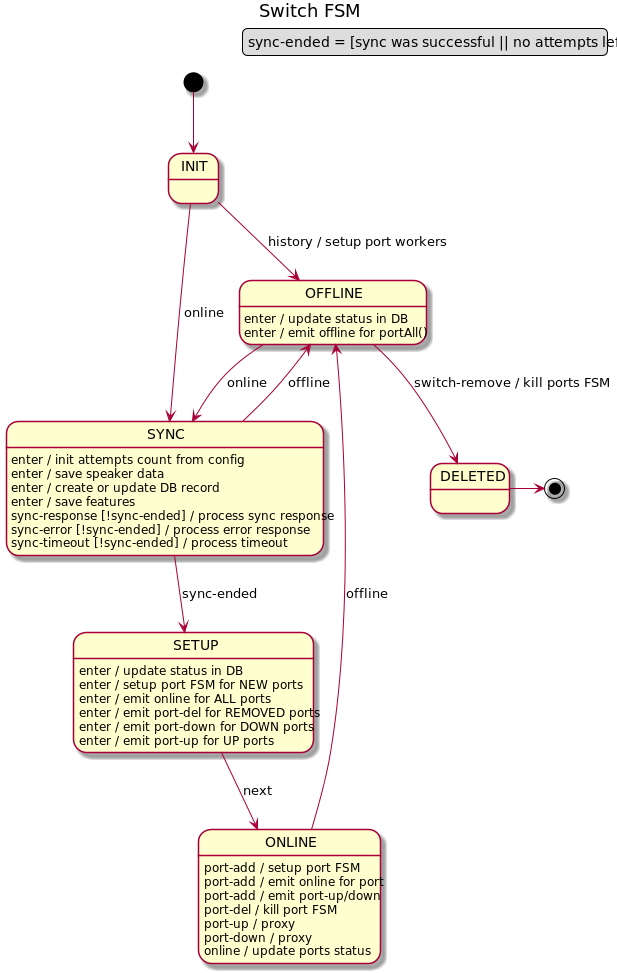
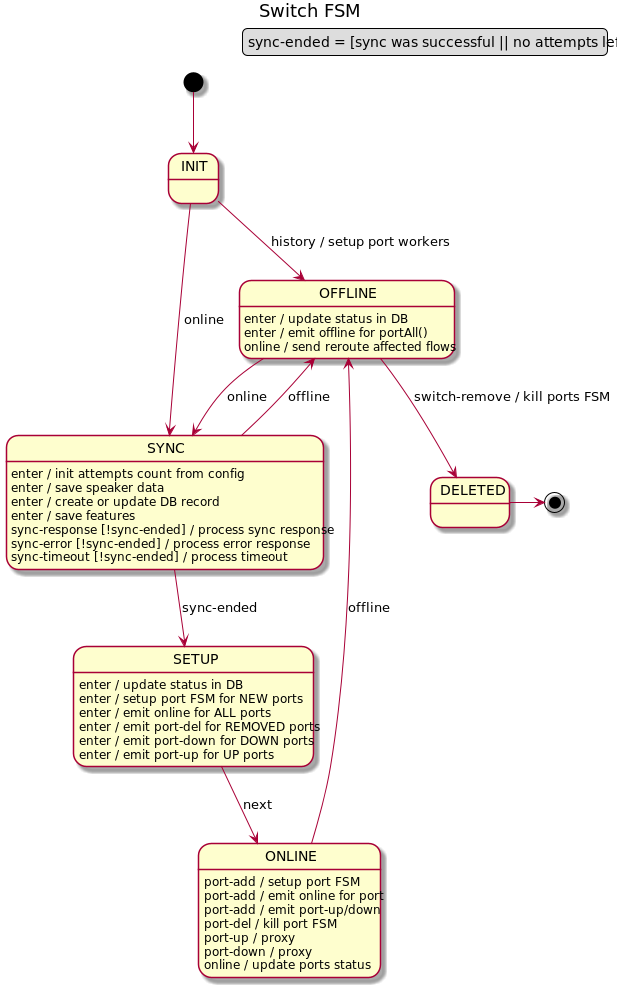
Reroute affected flows on switch up event

diff --git a/services/wfm/src/main/java/org/openkilda/wfm/topology/reroute/service/RerouteService.java b/services/wfm/src/main/java/org/openkilda/wfm/topology/reroute/service/RerouteService.java
@@ -15,6 +15,10 @@
 
 package org.openkilda.wfm.topology.reroute.service;
 
+import static java.lang.String.format;
+import static java.util.stream.Collectors.toMap;
+import static java.util.stream.Collectors.toSet;
+
 import org.openkilda.messaging.command.reroute.RerouteAffectedFlows;
 import org.openkilda.messaging.command.reroute.RerouteInactiveFlows;
 import org.openkilda.messaging.info.event.PathNode;
@@ -127,6 +131,28 @@ public class RerouteService {
             }
             if (failedFlowPath) {
                 updateFlowPathStatus(fp, FlowPathStatus.INACTIVE);
+            }
+        }
+    }
+
+    /**
+     * Handles reroute on switch up events.
+     * @param sender transport sender
+     * @param correlationId correlation id to pass through
+     * @param switchId switch id
+     */
+    public void rerouteInactiveAffectedFlows(MessageSender sender, String correlationId,
+                                             SwitchId switchId) {
+        Set<Flow> flowsForRerouting = getAffectedInactiveFlowsForRerouting(switchId);
+
+        for (Flow flow : flowsForRerouting) {
+            if (flow.isPinned()) {
+                log.info("Skipping reroute command for pinned flow {}", flow.getFlowId());
+            } else {
+                log.info("Produce reroute(attempt to restore inactive flow) request for {}",
+                        flow.getFlowId());
+                sender.emitRerouteCommand(correlationId, flow, Collections.emptySet(),
+                        format("Switch '%s' online", switchId));
             }
         }
     }
@@ -263,12 +289,22 @@ public class RerouteService {
     public Map<Flow, Set<PathId>> getInactiveFlowsForRerouting() {
         log.info("Get inactive flows");
         return flowRepository.findDownFlows().stream()
-                .collect(Collectors.toMap(Function.identity(),
+                .collect(toMap(Function.identity(),
                         flow -> flow.getPaths().stream()
                         .filter(path -> FlowPathStatus.INACTIVE.equals(path.getStatus()))
                         .map(FlowPath::getPathId)
                         .collect(Collectors.toSet()))
                 );
+    }
+
+    /**
+     * Returns affected inactive flow set for rerouting.
+     */
+    public Set<Flow> getAffectedInactiveFlowsForRerouting(SwitchId switchId) {
+        log.info("Get affected inactive flows for switch {}", switchId);
+        return flowPathRepository.findInactiveBySegmentSwitch(switchId).stream()
+                .map(FlowPath::getFlow)
+                .collect(toSet());
     }
 
     private void updateFlowPathStatus(FlowPath path, FlowPathStatus status) {

diff --git a/services/wfm/src/main/java/org/openkilda/wfm/topology/network/storm/bolt/sw/SwitchHandler.java b/services/wfm/src/main/java/org/openkilda/wfm/topology/network/storm/bolt/sw/SwitchHandler.java
@@ -15,6 +15,10 @@
 
 package org.openkilda.wfm.topology.network.storm.bolt.sw;
 
+import static org.openkilda.wfm.topology.network.storm.bolt.isl.IslHandler.STREAM_REROUTE_FIELDS;
+import static org.openkilda.wfm.topology.network.storm.bolt.isl.IslHandler.STREAM_REROUTE_ID;
+
+import org.openkilda.messaging.command.reroute.RerouteAffectedInactiveFlows;
 import org.openkilda.messaging.error.rule.SwitchSyncErrorData;
 import org.openkilda.messaging.info.event.PortInfoData;
 import org.openkilda.messaging.info.event.SwitchInfoData;
@@ -127,6 +131,7 @@ public class SwitchHandler extends AbstractBolt implements ISwitchCarrier {
         streamManager.declareStream(STREAM_PORT_ID, STREAM_PORT_FIELDS);
         streamManager.declareStream(STREAM_BFD_PORT_ID, STREAM_BFD_PORT_FIELDS);
         streamManager.declareStream(STREAM_SWMANAGER_ID, STREAM_SWMANAGER_FIELDS);
+        streamManager.declareStream(STREAM_REROUTE_ID, STREAM_REROUTE_FIELDS);
     }
 
     @Override
@@ -176,6 +181,11 @@ public class SwitchHandler extends AbstractBolt implements ISwitchCarrier {
         emit(STREAM_SWMANAGER_ID, getCurrentTuple(), makeSwitchManagerWorkerTuple(key, switchId));
     }
 
+    @Override
+    public void sendAffectedFlowRerouteRequest(SwitchId switchId) {
+        emit(STREAM_REROUTE_ID, getCurrentTuple(), makeAffectedFlowRerouteTuple(switchId));
+    }
+
     private Values makePortTuple(PortCommand command) {
         Endpoint endpoint = command.getEndpoint();
         CommandContext context = forkContext(endpoint.toString());
@@ -191,6 +201,11 @@ public class SwitchHandler extends AbstractBolt implements ISwitchCarrier {
     private Values makeSwitchManagerWorkerTuple(String key, SwitchId switchId) {
         return new Values(
                 key, new SwitchManagerSynchronizeSwitchCommand(key, switchId), getCommandContext().fork("sync"));
+    }
+
+    private Values makeAffectedFlowRerouteTuple(SwitchId switchId) {
+        return new Values(switchId.toString(), new RerouteAffectedInactiveFlows(switchId),
+                getCommandContext().fork("reroute"));
     }
 
     // SwitchCommand processing

diff --git a/services/src/messaging/src/main/java/org/openkilda/messaging/command/reroute/RerouteAffectedInactiveFlows.java b/services/src/messaging/src/main/java/org/openkilda/messaging/command/reroute/RerouteAffectedInactiveFlows.java
@@ -1,0 +1,42 @@
+/* Copyright 2020 Telstra Open Source
+ *
+ *   Licensed under the Apache License, Version 2.0 (the "License");
+ *   you may not use this file except in compliance with the License.
+ *   You may obtain a copy of the License at
+ *
+ *       http://www.apache.org/licenses/LICENSE-2.0
+ *
+ *   Unless required by applicable law or agreed to in writing, software
+ *   distributed under the License is distributed on an "AS IS" BASIS,
+ *   WITHOUT WARRANTIES OR CONDITIONS OF ANY KIND, either express or implied.
+ *   See the License for the specific language governing permissions and
+ *   limitations under the License.
+ */
+
+package org.openkilda.messaging.command.reroute;
+
+import org.openkilda.messaging.command.CommandData;
+import org.openkilda.model.SwitchId;
+
+import com.fasterxml.jackson.annotation.JsonCreator;
+import com.fasterxml.jackson.annotation.JsonInclude;
+import com.fasterxml.jackson.annotation.JsonProperty;
+import com.fasterxml.jackson.databind.PropertyNamingStrategy.SnakeCaseStrategy;
+import com.fasterxml.jackson.databind.annotation.JsonNaming;
+import lombok.Data;
+import lombok.EqualsAndHashCode;
+import lombok.NonNull;
+
+@Data
+@EqualsAndHashCode(callSuper = false)
+@JsonNaming(SnakeCaseStrategy.class)
+@JsonInclude(JsonInclude.Include.NON_NULL)
+public class RerouteAffectedInactiveFlows extends CommandData {
+
+    private SwitchId switchId;
+
+    @JsonCreator
+    public RerouteAffectedInactiveFlows(@NonNull @JsonProperty("switch_id") SwitchId switchId) {
+        this.switchId = switchId;
+    }
+}

diff --git a/services/wfm/src/test/java/org/openkilda/wfm/topology/reroute/service/RerouteServiceTest.java b/services/wfm/src/test/java/org/openkilda/wfm/topology/reroute/service/RerouteServiceTest.java
@@ -315,4 +315,31 @@ public class RerouteServiceTest {
                 eq(Collections.singleton(new IslEndpoint(islSide.getSwitchId(), islSide.getPortNo()))),
                 any(String.class));
     }
+
+    @Test
+    public void handleRerouteInactiveAffectedFlows() {
+        FlowPathRepository pathRepository = mock(FlowPathRepository.class);
+        when(pathRepository.findInactiveBySegmentSwitch(regularFlow.getSrcSwitch().getSwitchId()))
+                .thenReturn(Arrays.asList(regularFlow.getForwardPath(), regularFlow.getReversePath()));
+
+        RepositoryFactory repositoryFactory = mock(RepositoryFactory.class);
+        when(repositoryFactory.createFlowPathRepository())
+                .thenReturn(pathRepository);
+
+        PersistenceManager persistenceManager = mock(PersistenceManager.class);
+        when(persistenceManager.getRepositoryFactory()).thenReturn(repositoryFactory);
+        when(persistenceManager.getTransactionManager()).thenReturn(transactionManager);
+
+        RerouteService rerouteService = new RerouteService(persistenceManager);
+
+        regularFlow.setStatus(FlowStatus.DOWN);
+        rerouteService.rerouteInactiveAffectedFlows(carrier, CORRELATION_ID, regularFlow.getSrcSwitch().getSwitchId());
+
+        verify(carrier).emitRerouteCommand(
+                eq(CORRELATION_ID), eq(regularFlow),
+                eq(Collections.emptySet()),
+                any(String.class));
+
+        regularFlow.setStatus(FlowStatus.UP);
+    }
 }

diff --git a/services/src/kilda-core/kilda-persistence-neo4j/src/test/java/org/openkilda/persistence/repositories/impl/Neo4jFlowPathRepositoryTest.java b/services/src/kilda-core/kilda-persistence-neo4j/src/test/java/org/openkilda/persistence/repositories/impl/Neo4jFlowPathRepositoryTest.java
@@ -335,6 +335,30 @@ public class Neo4jFlowPathRepositoryTest extends Neo4jBasedTest {
     }
 
     @Test
+    public void shouldFindInactivePathBySegmentSwitch() {
+        Flow activeFlow = Flow.builder()
+                .flowId("active flow")
+                .srcSwitch(switchA)
+                .srcPort(1)
+                .destSwitch(switchB)
+                .destPort(2)
+                .status(FlowStatus.UP)
+                .build();
+        flowRepository.createOrUpdate(activeFlow);
+        FlowPath activeFlowPath = buildFlowPath(activeFlow, "active", 100L, 200L, switchA, switchB);
+        activeFlowPath.getFlow().setStatus(FlowStatus.DOWN);
+        FlowPath expectedFlowPath = buildTestFlowPathWithIntermediate(switchC, 100);
+        expectedFlowPath.getFlow().setStatus(FlowStatus.DOWN);
+        flowPathRepository.createOrUpdate(activeFlowPath);
+        flowPathRepository.createOrUpdate(expectedFlowPath);
+
+        Collection<FlowPath> foundPaths = flowPathRepository.findInactiveBySegmentSwitch(switchA.getSwitchId());
+        assertThat(foundPaths, hasSize(1));
+        FlowPath actualFlowPath = foundPaths.stream().findFirst().orElse(null);
+        assertEquals(expectedFlowPath, actualFlowPath);
+    }
+
+    @Test
     public void shouldFindPathBySegmentDestSwitch() {
         FlowPath flowPath = buildTestFlowPathWithIntermediate(switchC, 100);
         flowPathRepository.createOrUpdate(flowPath);

diff --git a/services/wfm/src/main/java/org/openkilda/wfm/topology/network/controller/sw/SwitchFsm.java b/services/wfm/src/main/java/org/openkilda/wfm/topology/network/controller/sw/SwitchFsm.java
@@ -84,6 +84,7 @@ public final class SwitchFsm extends AbstractBaseFsm<SwitchFsm, SwitchFsmState, 
     private String awaitingResponseKey;
 
     private SpeakerSwitchView speakerData;
+    private boolean wasOffline;
 
     public static SwitchFsmFactory factory() {
         return new SwitchFsmFactory();
@@ -145,6 +146,10 @@ public final class SwitchFsm extends AbstractBaseFsm<SwitchFsm, SwitchFsmState, 
         transactionManager.doInTransaction(transactionRetryPolicy, () -> updatePersistentStatus(SwitchStatus.ACTIVE));
         updatePorts(context, speakerData, true);
         speakerData = null;
+        if (wasOffline) {
+            context.getOutput().sendAffectedFlowRerouteRequest(switchId);
+            wasOffline = false;
+        }
     }
 
     public void onlineEnter(SwitchFsmState from, SwitchFsmState to, SwitchFsmEvent event, SwitchFsmContext context) {
@@ -155,6 +160,7 @@ public final class SwitchFsm extends AbstractBaseFsm<SwitchFsm, SwitchFsmState, 
                              SwitchFsmContext context) {
         logWrapper.onSwitchOffline(switchId);
         transactionManager.doInTransaction(transactionRetryPolicy, () -> updatePersistentStatus(SwitchStatus.INACTIVE));
+        wasOffline = true;
 
         for (AbstractPort port : portByNumber.values()) {
             updateOnlineStatus(port, context, false);

diff --git a/services/src/kilda-core/kilda-persistence-neo4j/src/main/java/org/openkilda/persistence/repositories/impl/Neo4jFlowPathRepository.java b/services/src/kilda-core/kilda-persistence-neo4j/src/main/java/org/openkilda/persistence/repositories/impl/Neo4jFlowPathRepository.java
@@ -207,6 +207,27 @@ public class Neo4jFlowPathRepository extends Neo4jGenericRepository<FlowPath> im
     }
 
     @Override
+    public Collection<FlowPath> findInactiveBySegmentSwitch(SwitchId switchId) {
+        Map<String, Object> parameters = ImmutableMap.of(
+                "switch_id", switchIdConverter.toGraphProperty(switchId));
+
+        Set<String> pathIds = new HashSet<>();
+        queryForStrings("MATCH (ps_src:switch)-[:source]-(ps:path_segment)-[:destination]-(ps_dst:switch) "
+                + "WHERE ps_src.name = $switch_id OR ps_dst.name = $switch_id "
+                + "MATCH (f:flow)-[:owns]-(fp:flow_path)-[:owns]-(ps) "
+                + "WHERE f.status = 'down' OR f.status = 'degraded' "
+                + "RETURN fp.path_id as path_id", parameters, "path_id").forEach(pathIds::add);
+
+        if (pathIds.isEmpty()) {
+            return emptyList();
+        }
+
+        Filter pathIdsFilter = new Filter(PATH_ID_PROPERTY_NAME, new InOperatorWithNoConverterComparison(pathIds));
+
+        return loadAll(pathIdsFilter);
+    }
+
+    @Override
     public Collection<FlowPath> findBySegmentSwitchWithMultiTable(SwitchId switchId, boolean multiTable) {
         Map<String, Object> parameters = ImmutableMap.of(
                 "switch_id", switchIdConverter.toGraphProperty(switchId),

diff --git a/services/wfm/src/main/java/org/openkilda/wfm/topology/reroute/bolts/RerouteBolt.java b/services/wfm/src/main/java/org/openkilda/wfm/topology/reroute/bolts/RerouteBolt.java
@@ -19,6 +19,7 @@ import org.openkilda.messaging.command.CommandData;
 import org.openkilda.messaging.command.CommandMessage;
 import org.openkilda.messaging.command.flow.FlowPathSwapRequest;
 import org.openkilda.messaging.command.reroute.RerouteAffectedFlows;
+import org.openkilda.messaging.command.reroute.RerouteAffectedInactiveFlows;
 import org.openkilda.messaging.command.reroute.RerouteInactiveFlows;
 import org.openkilda.model.Flow;
 import org.openkilda.model.FlowPath;
@@ -76,6 +77,9 @@ public class RerouteBolt extends AbstractBolt implements MessageSender {
         String correlationId = message.getCorrelationId();
         if (commandData instanceof RerouteAffectedFlows) {
             rerouteService.rerouteAffectedFlows(this, correlationId, (RerouteAffectedFlows) commandData);
+        } else if (commandData instanceof RerouteAffectedInactiveFlows) {
+            rerouteService.rerouteInactiveAffectedFlows(this, correlationId,
+                    ((RerouteAffectedInactiveFlows) commandData).getSwitchId());
         } else if (commandData instanceof RerouteInactiveFlows) {
             rerouteService.rerouteInactiveFlows(this, correlationId, (RerouteInactiveFlows) commandData);
         } else {

diff --git a/services/wfm/src/main/java/org/openkilda/wfm/topology/network/NetworkTopology.java b/services/wfm/src/main/java/org/openkilda/wfm/topology/network/NetworkTopology.java
@@ -329,7 +329,8 @@ public class NetworkTopology extends AbstractTopology<NetworkTopologyConfig> {
     private void outputReroute(TopologyBuilder topology, int scaleFactor) {
         RerouteEncoder bolt = new RerouteEncoder();
         topology.setBolt(RerouteEncoder.BOLT_ID, bolt, scaleFactor)
-                .shuffleGrouping(IslHandler.BOLT_ID, IslHandler.STREAM_REROUTE_ID);
+                .shuffleGrouping(IslHandler.BOLT_ID, IslHandler.STREAM_REROUTE_ID)
+                .shuffleGrouping(SwitchHandler.BOLT_ID, IslHandler.STREAM_REROUTE_ID);
 
         KafkaBolt output = buildKafkaBolt(topologyConfig.getKafkaTopoRerouteTopic());
         topology.setBolt(ComponentId.REROUTE_OUTPUT.toString(), output, scaleFactor)

diff --git a/services/wfm/src/test/java/org/openkilda/wfm/topology/network/service/NetworkSwitchServiceTest.java b/services/wfm/src/test/java/org/openkilda/wfm/topology/network/service/NetworkSwitchServiceTest.java
@@ -405,6 +405,7 @@ public class NetworkSwitchServiceTest {
                                         LinkStatus.of(ports2.get(0).getState()));
         verify(carrier).setBfdPortLinkMode(Endpoint.of(alphaDatapath, ports2.get(1).getNumber()),
                                            LinkStatus.of(ports2.get(0).getState()));
+        verify(carrier).sendAffectedFlowRerouteRequest(alphaDatapath);
     }
 
     @Test

diff --git a/services/wfm/src/test/java/org/openkilda/wfm/topology/network/service/NetworkIntegrationCarrier.java b/services/wfm/src/test/java/org/openkilda/wfm/topology/network/service/NetworkIntegrationCarrier.java
@@ -186,6 +186,10 @@ public class NetworkIntegrationCarrier
     }
 
     @Override
+    public void sendAffectedFlowRerouteRequest(SwitchId switchId) {
+    }
+
+    @Override
     public void setupIslFromHistory(Endpoint endpoint, IslReference islReference, Isl history) {
         islService.islSetupFromHistory(endpoint, islReference, history);
     }

diff --git a/services/src/kilda-core/kilda-persistence-api/src/main/java/org/openkilda/persistence/repositories/FlowPathRepository.java b/services/src/kilda-core/kilda-persistence-api/src/main/java/org/openkilda/persistence/repositories/FlowPathRepository.java
@@ -64,6 +64,7 @@ public interface FlowPathRepository extends Repository<FlowPath> {
 
     Collection<FlowPath> findBySegmentSwitch(SwitchId switchId);
 
+    Collection<FlowPath> findInactiveBySegmentSwitch(SwitchId switchId);
 
     /**
      * Finds flow paths which segments are goes through the switch in a multi-table mode.
